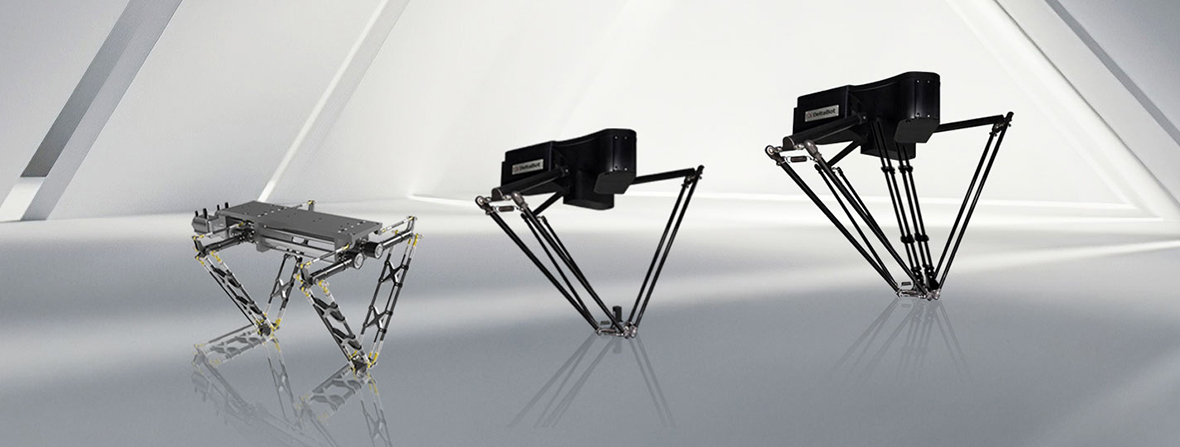
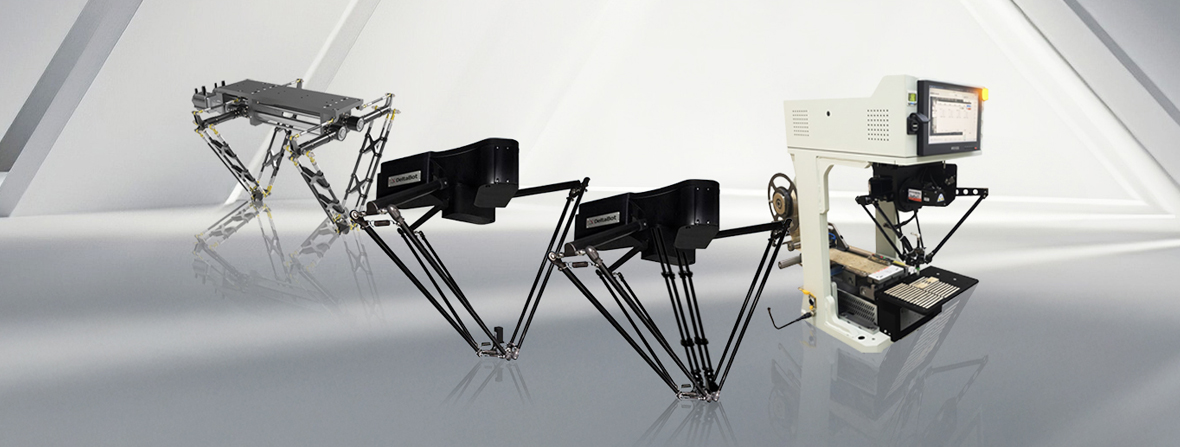
사업소개 - 델타로봇 새로운 시리즈 추가

diff --git a/src/data/businessIntroData.js b/src/data/businessIntroData.js
@@ -144,7 +144,7 @@ const businessIntroData = {
       theme: 'royal-blue',
       title: '고속 조립·포장의 혁신, 델타 로봇',
       description:
-        ['델타 로봇(Delta Robot)은 병렬 링크 메커니즘(Parallel Kinematic Mechanism)을 기반으로 설계된 고속 고정밀 산업용 로봇입니다. 3개의 경량 링크가 삼각형 형태의 상단 프레임에 연결되어 있으며, 각각 독립적인 서보 모터에 의해 구동됩니다. 이 링크들은 공통된 플랫폼(엔드 이펙터)을 지지하며, 로봇의 공간 좌표를 고정밀하게 제어할 수 있도록 해줍니다. 델타 구조는 일반적인 직렬 구조 로봇에 비해 훨씬 빠른 응답성과 낮은 관성을 제공하므로, #초당 수백 회의 픽앤플레이스 작업을 요구하는 고속 생산 라인#라인에 특히 적합합니다. 이러한 구조적 이점 덕분에 #델타 로봇은 식음료, 제약, 전자부품, 화장품, 포장 산업 등 다양한 분야에서 널리 활용#되고 있습니다.', '#클린룸 인증(IP65 이상) 제품도 지원 가능#하므로, 위생 기준이 엄격한 환경에서도 안정적으로 작동하며, 생산 품질 향상 및 생산성 극대화에 기여할 수 있는 핵심 자동화 장비로 자리매김하고 있습니다.'],
+        ['델타 로봇(Delta Robot)은 병렬 링크 메커니즘(Parallel Kinematic Mechanism)을 기반으로 설계된 고속 고정밀 산업용 로봇입니다. 3개의 경량 링크가 삼각형 형태의 상단 프레임에 연결되어 있으며, 각각 독립적인 서보 모터에 의해 구동됩니다. 이 링크들은 공통된 플랫폼(엔드 이펙터)을 지지하며, 로봇의 공간 좌표를 고정밀하게 제어할 수 있도록 해줍니다. 델타 구조는 일반적인 직렬 구조 로봇에 비해 훨씬 빠른 응답성과 낮은 관성을 제공하므로, #초당 수백 회의 픽앤플레이스 작업을 요구하는 고속 생산 라인#라인에 특히 적합합니다. 이러한 구조적 이점 덕분에 #델타 로봇은 식음료, 제약, 전자부품, 화장품, 포장 산업 등 다양한 분야에서 널리 활용#되고 있습니다.', '#클린룸 인증(IP65 이상) 제품도 지원 가능#하므로, 위생 기준이 엄격한 환경에서도 안정적으로 작동하며, 생산 품질 향상 및 생산성 극대화에 기여할 수 있는 핵심 자동화 장비로 자리매김하고 있습니다.', 'DRF_ V 시리즈 차세대 플렉시블 워크스테이션은 CCD 모듈과 공급 모듈을 통합한 고정밀 델타 병렬 로봇을 탑재하여 #고정밀 트레이 배치, 분류 및 부착 작업을 수행#합니다. 전자, 하드웨어, 의료, 자동차, 반도체 등 다양한 산업 분야에서 널리 사용되고 있습니다. #모듈식 표준화 설계 컨셉을 채택하여 높은 호환성을 제공#하고, 비용 절감 및 효율성 향상, 작업 공간 축소, 교체 효율성 향상 등의 이점을 제공합니다.'],
       images: [`card`],
       link: {
         label: "자동화 솔루션 자세히 보기",
